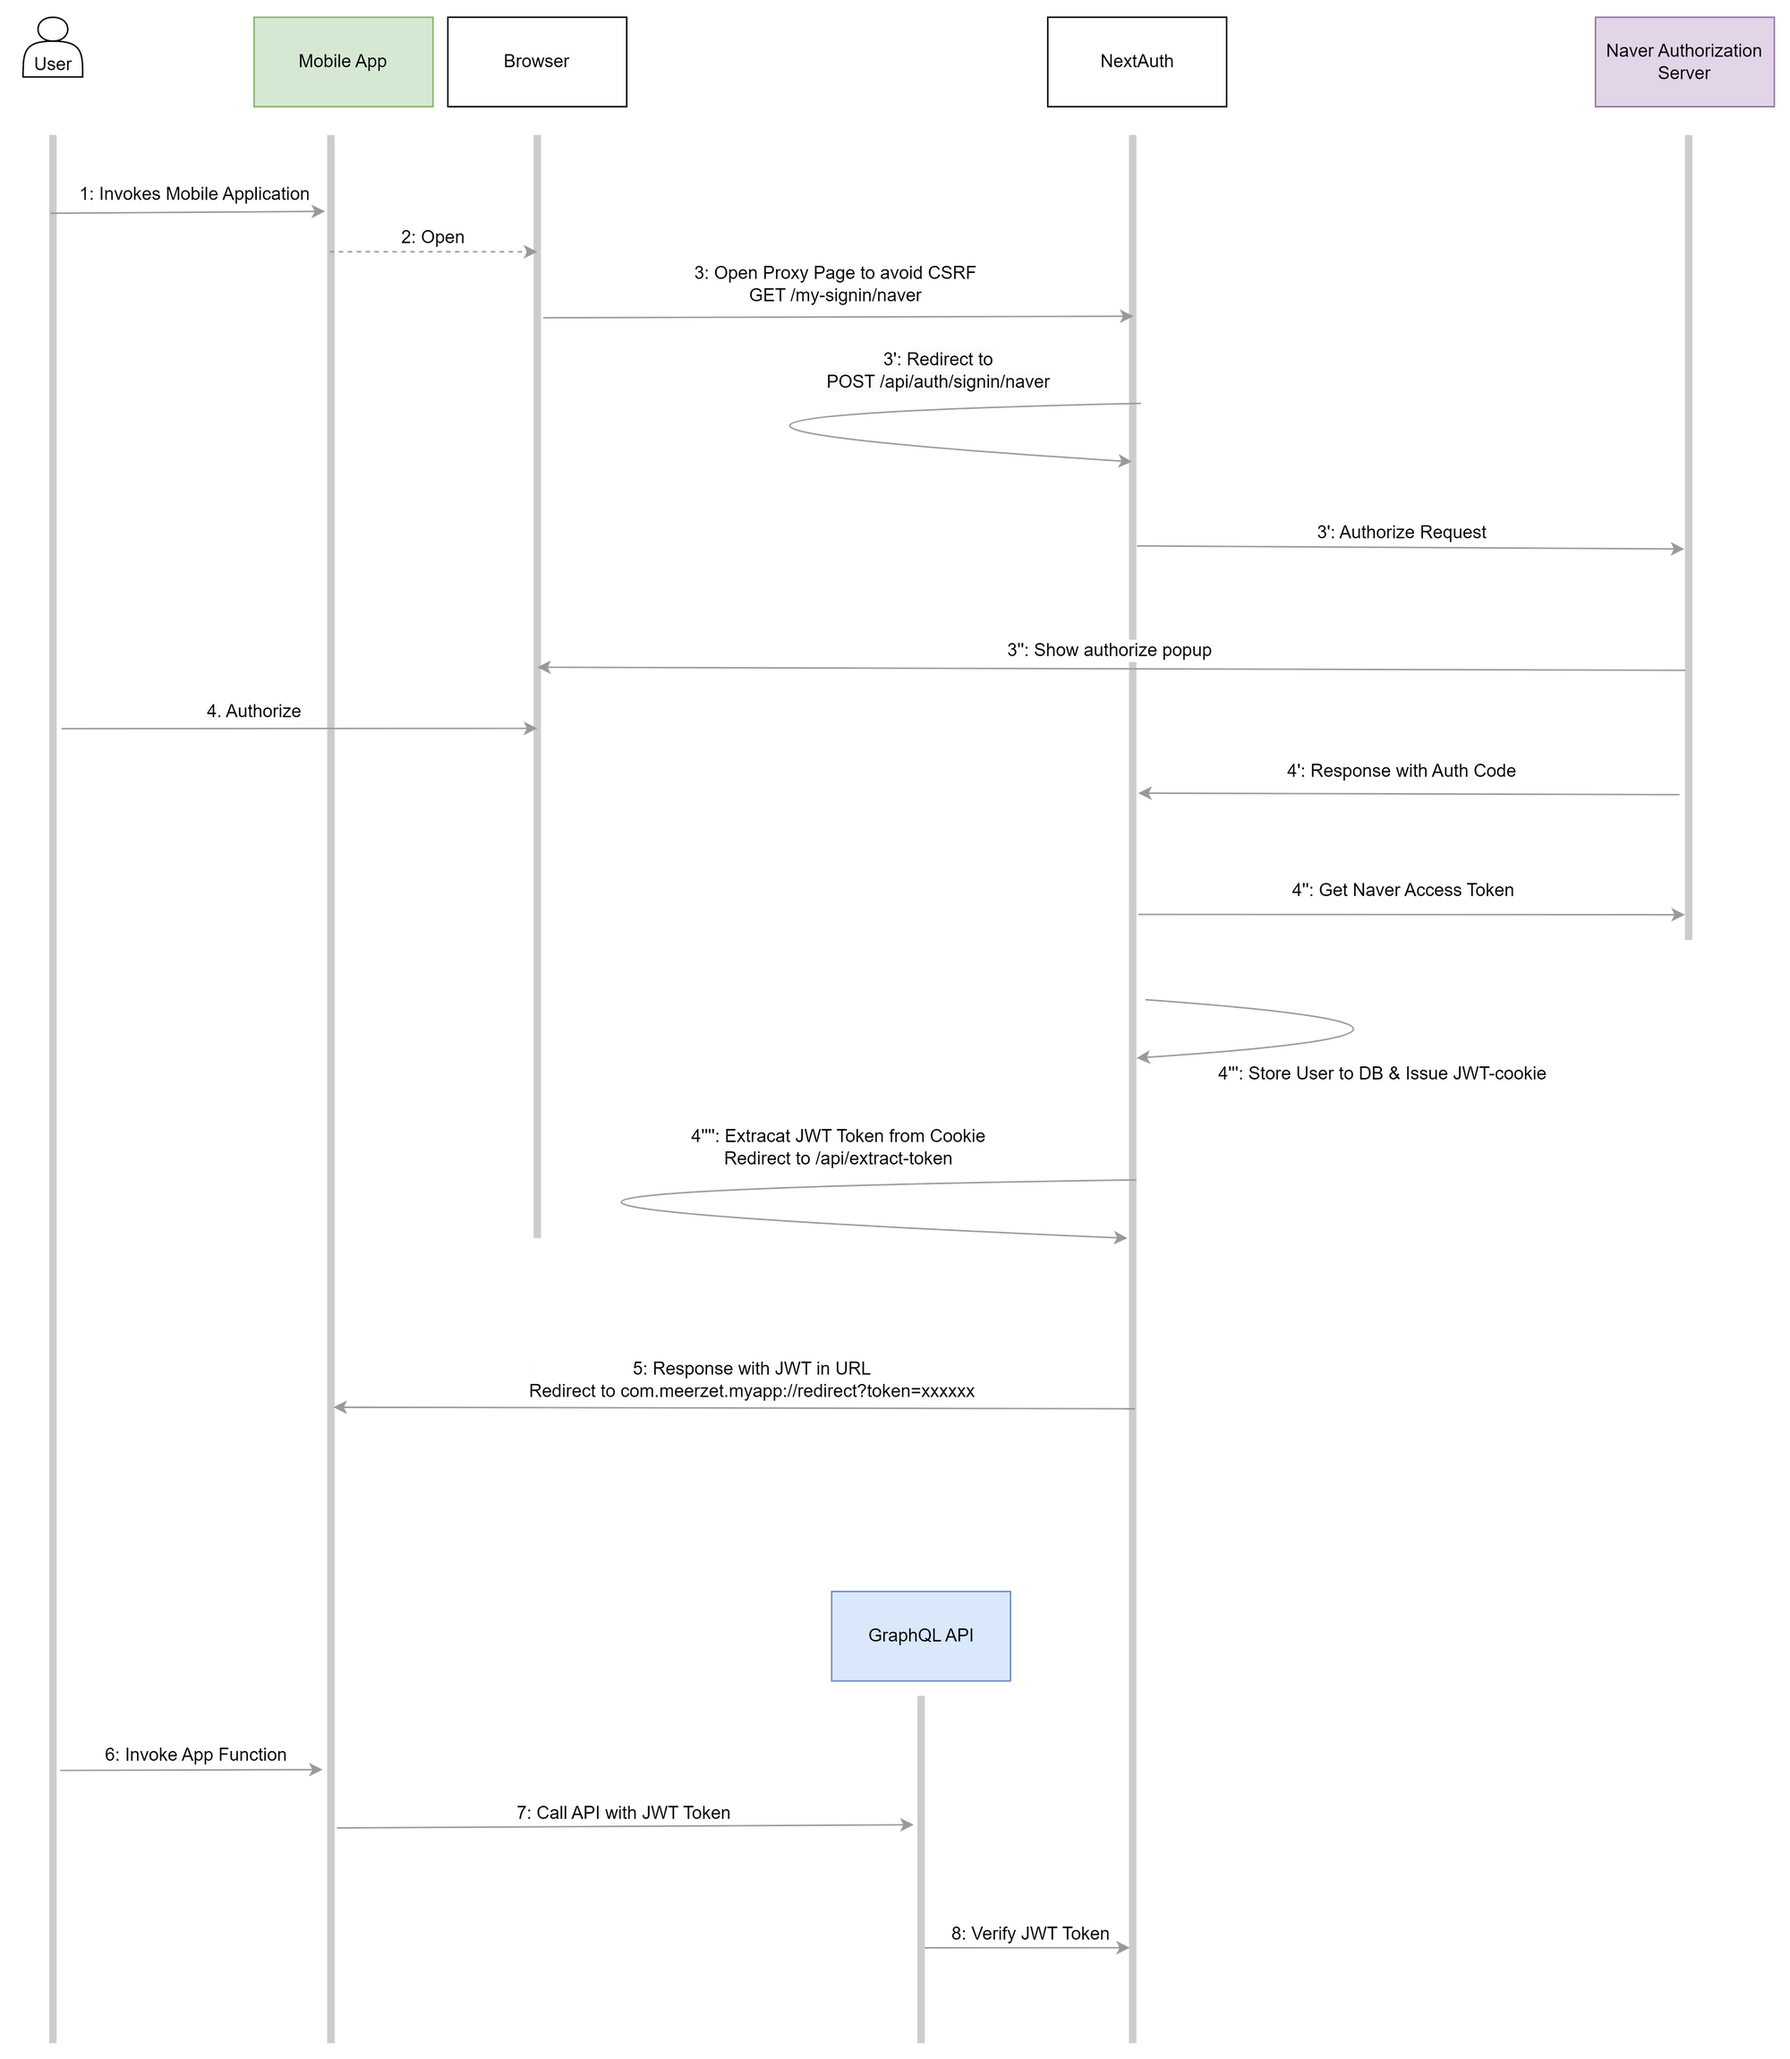
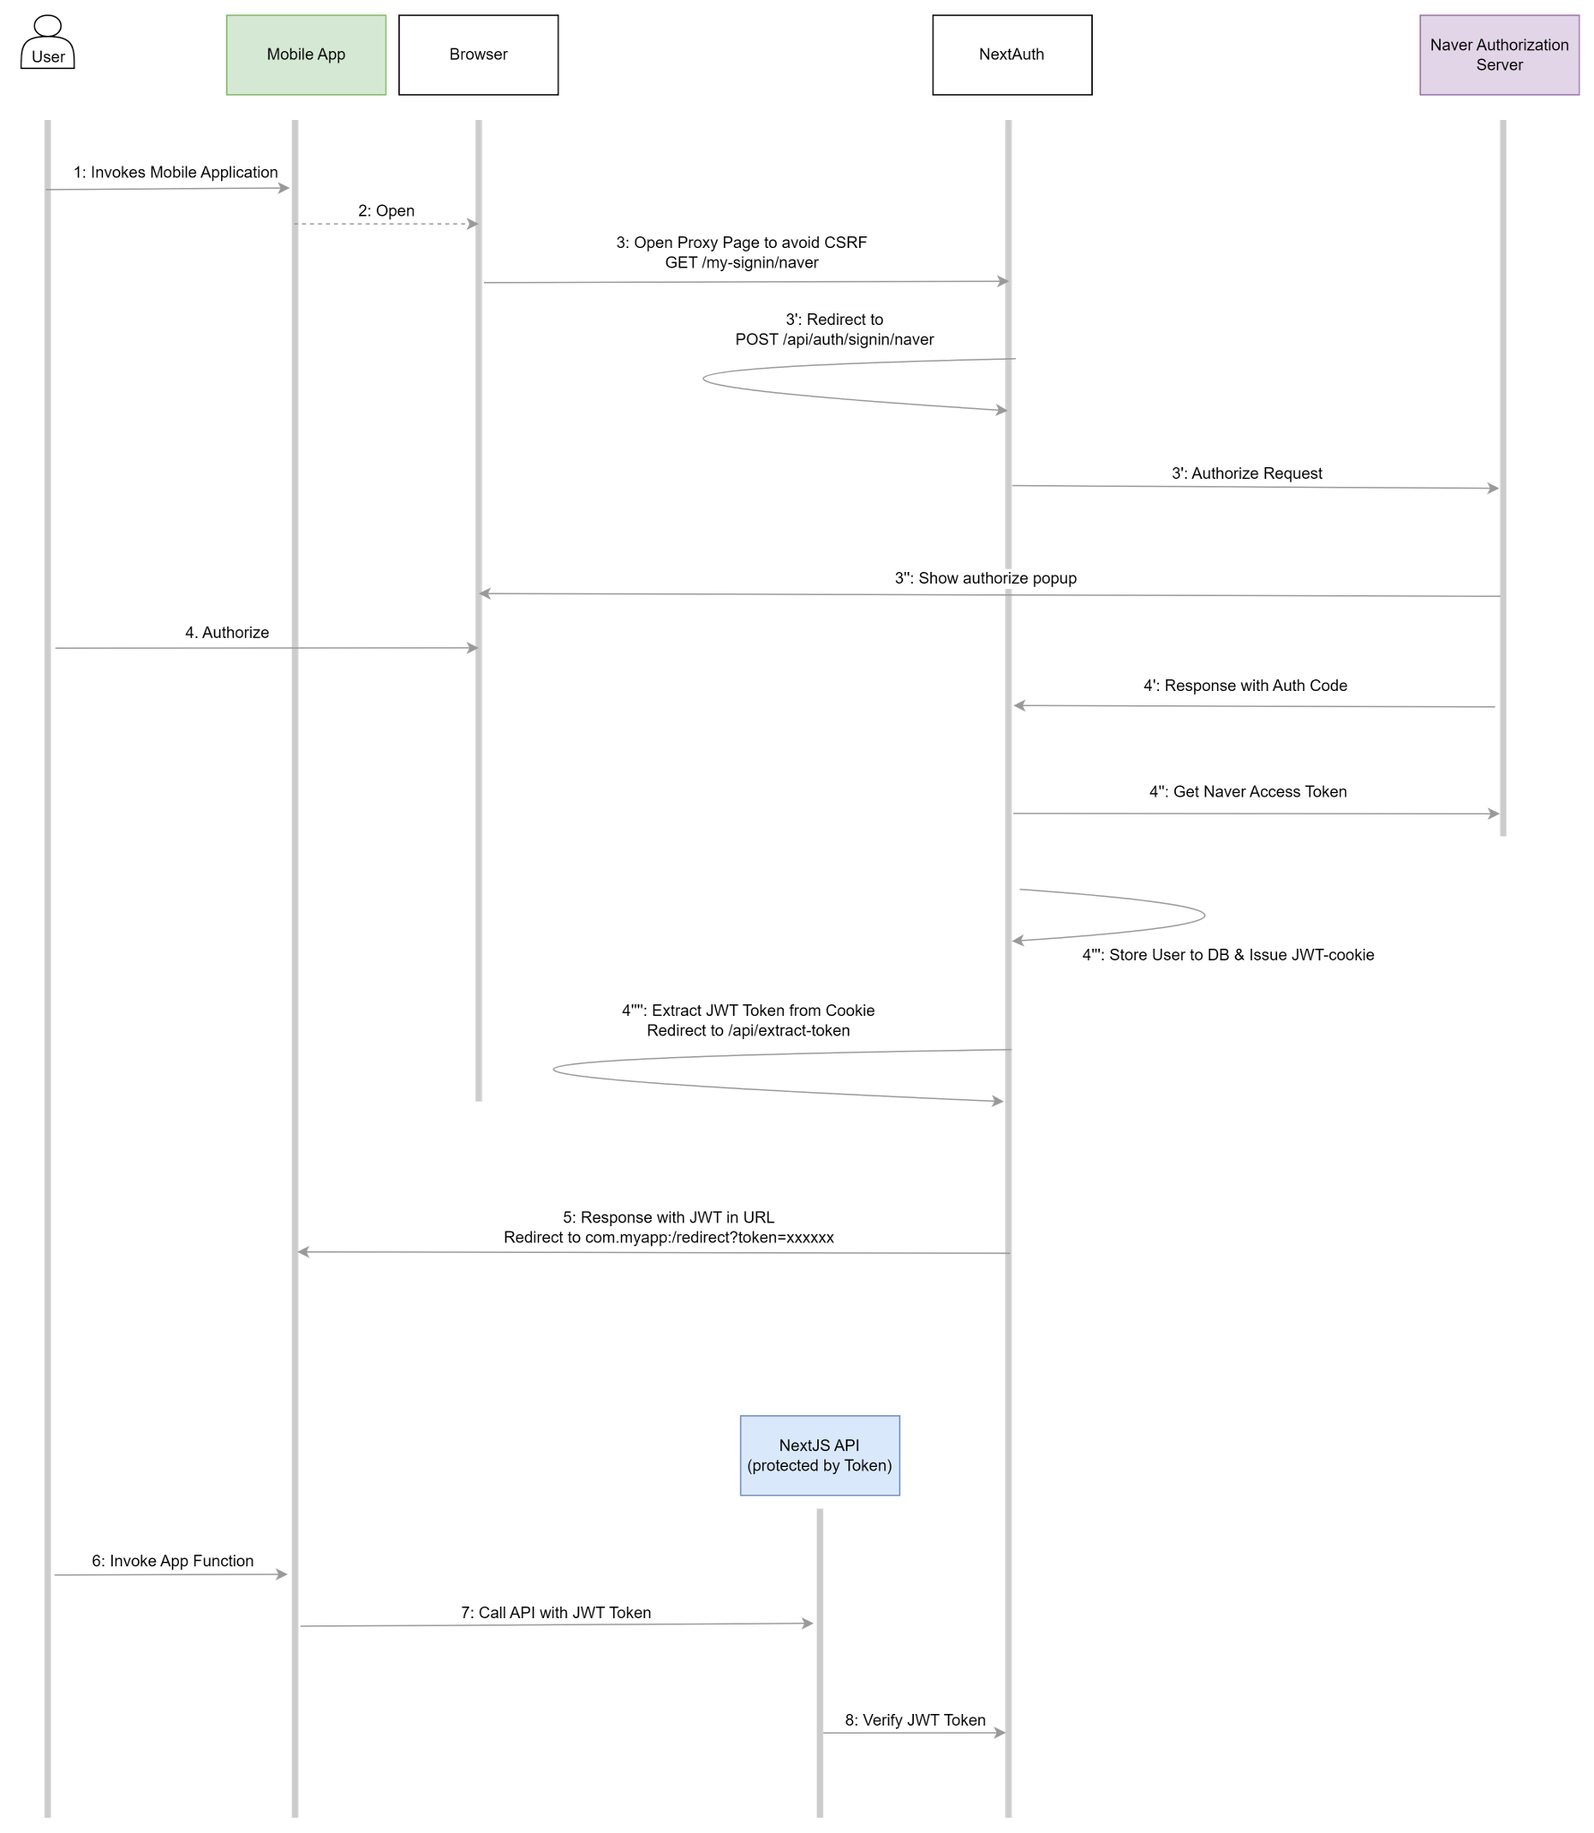
Update README.md

diff --git a/client/README.md b/client/README.md
@@ -12,7 +12,7 @@ yarn install
 
 `app.config.js`파일의 SERVER_URL을 수정해주세요.
 
-- Express가 192.168.35.29:3000에서 실행중이라면 `http://192.168.35.29:3000`
+- NextJS가 192.168.35.29:3000에서 실행중이라면 `http://192.168.35.29:3000`
 
 ```javascript
 const SERVER_URL = "YOUR Express Server URL"
